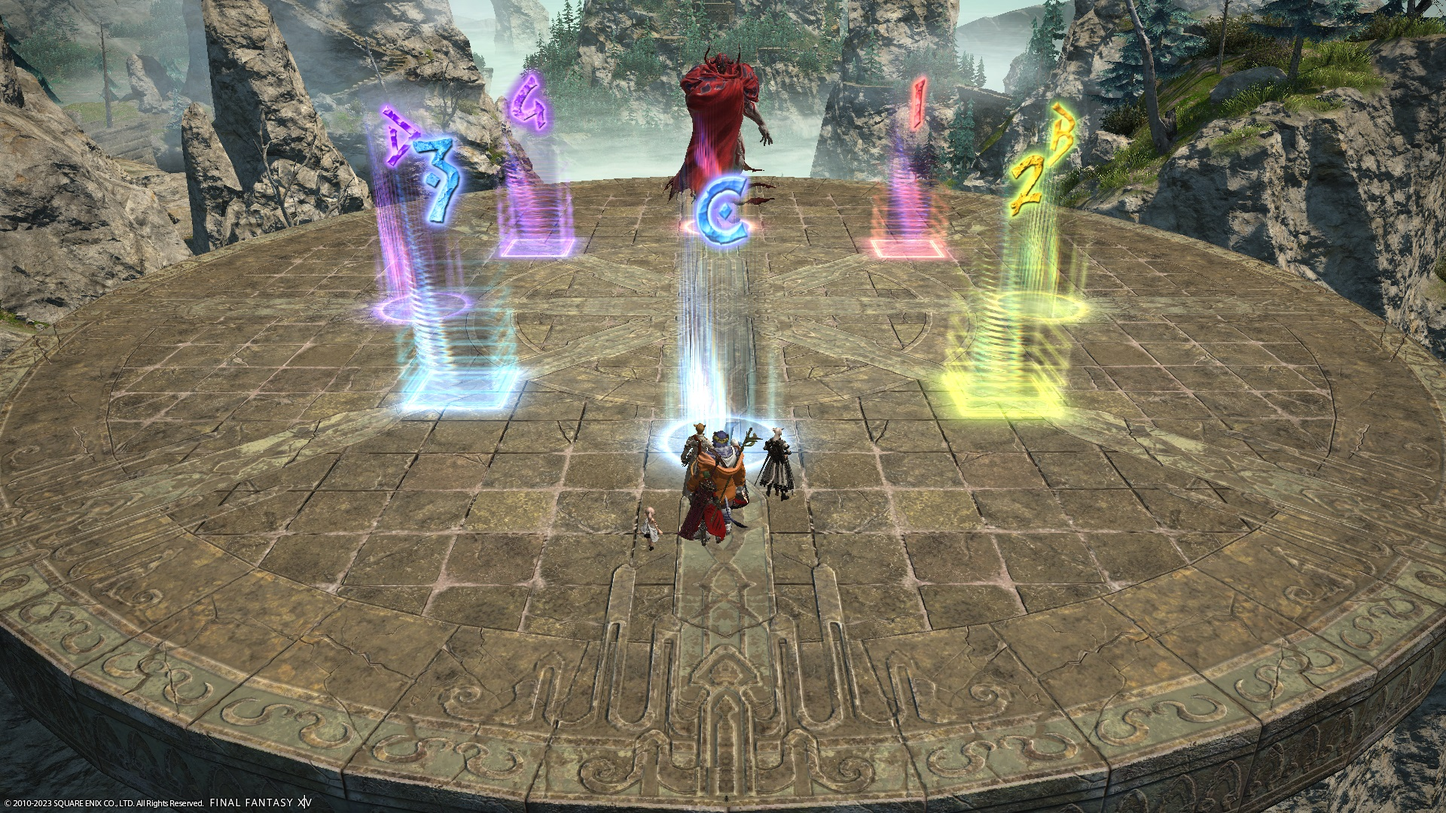
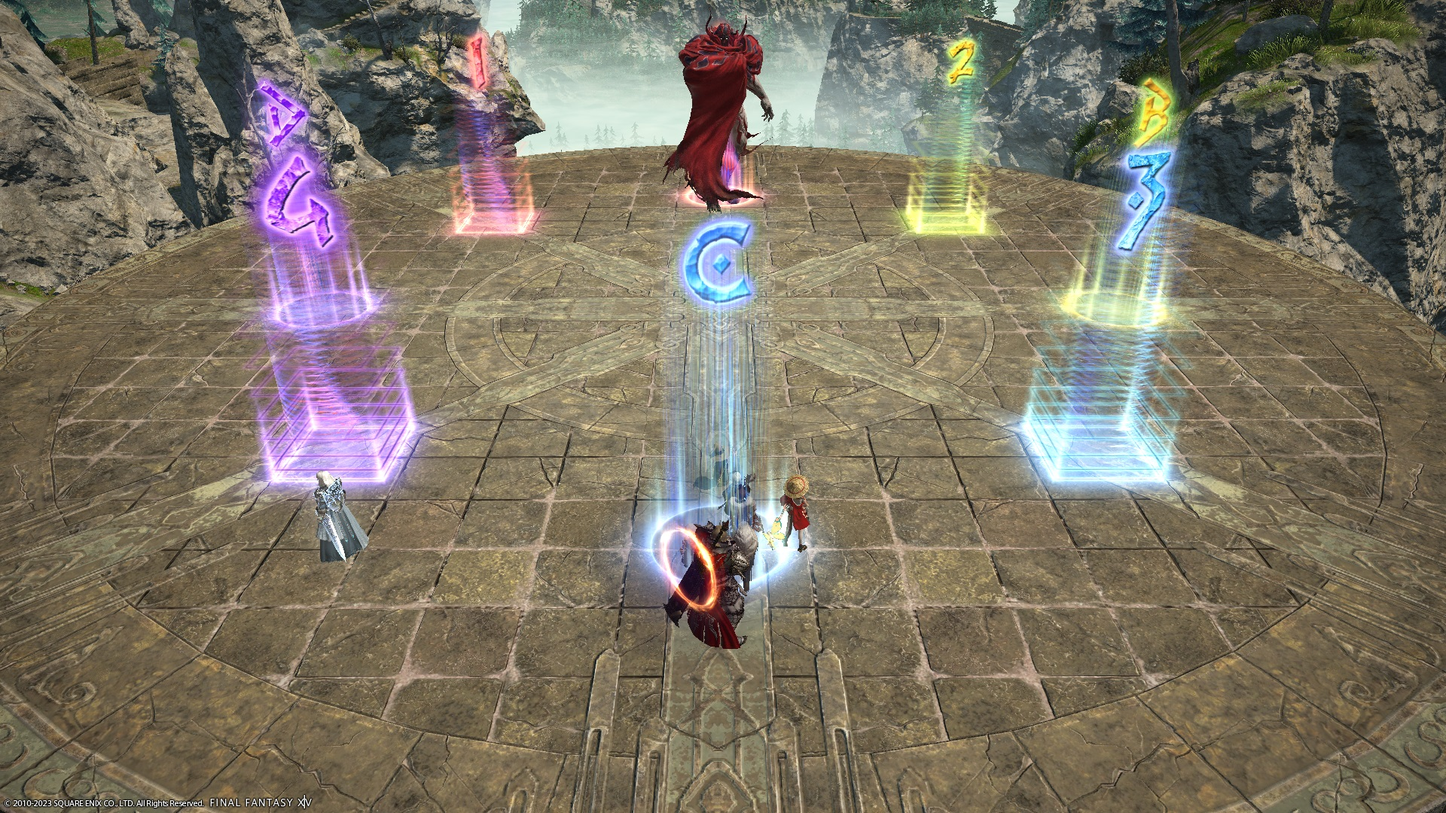
Update markers, add waymark positions

diff --git a/6.0_endwalker/extreme_trials/rubicante/README.md b/6.0_endwalker/extreme_trials/rubicante/README.md
@@ -109,6 +109,15 @@ With Nukemaru's strat, players that need to rotate always rotates clockwise. The
 - The markers are the spread positions during Flamerake and Scalding Ring/Signal.
 
 ![](images/markers.jpg)
+<details markdown=block>
+<summary>XIVLauncher WaymarkPresetPlugin positions</summary>
+
+```json
+{"Name":"Rubicante EX","MapID":924,"A":{"X":100.0,"Y":0.0,"Z":88.5,"ID":0,"Active":true},"B":{"X":111.5,"Y":0.0,"Z":100.0,"ID":1,"Active":true},"C":{"X":100.0,"Y":0.0,"Z":111.5,"ID":2,"Active":true},"D":{"X":88.5,"Y":0.0,"Z":100.0,"ID":3,"Active":true},"One":{"X":91.868,"Y":0.0,"Z":91.868,"ID":4,"Active":true},"Two":{"X":108.131,"Y":0.0,"Z":91.868,"ID":5,"Active":true},"Three":{"X":108.131,"Y":0.0,"Z":108.131,"ID":6,"Active":true},"Four":{"X":91.868,"Y":0.0,"Z":108.131,"ID":7,"Active":true}}
+```
+
+</details>
+
 
 ## Timeline
 
